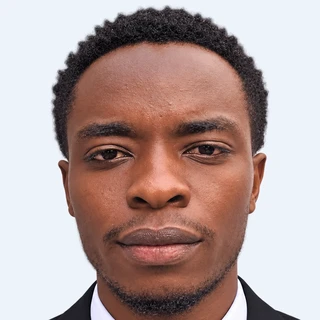
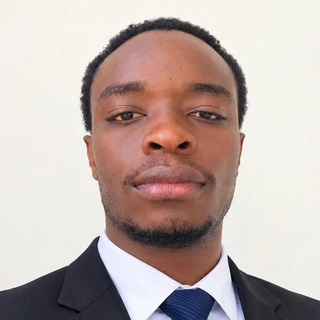
Update Isaiah's photo and match founder portraits

diff --git a/founders.html b/founders.html
@@ -35,7 +35,7 @@
 <main id="main">
 
 <section class="page-hero"><div class="container"><span class="eyebrow">The people behind OM</span><h1>Meet our founders.</h1><p>Four founders building practical water, farm and workplace solutions — and a brand that carries beyond the job site.</p></div></section>
-<section class="section-sm" style="padding-top:0"><div class="container"><div class="grid grid-4"><article class="card founder reveal" style="--d:0.00s"><div class="avatar photo"><img src="assets/founders/john.webp" alt="John Senteu" width="160" height="160" loading="lazy"></div><span class="role">Co-founder</span><h2>John Senteu</h2><p>Managing Director</p><small>Leads OM's business.</small></article><article class="card founder reveal" style="--d:0.06s"><div class="avatar photo"><img src="assets/founders/dickson.webp" alt="Eng. Dickson Monyatet" width="160" height="160" loading="lazy"></div><span class="role">Co-founder</span><h2>Eng. Dickson Monyatet</h2><p>Engineer</p><small>Full biography coming soon.</small></article><article class="card founder reveal" style="--d:0.12s"><div class="avatar photo"><img src="assets/founders/ian.webp" alt="Eng. Ian A. Ombui" width="160" height="160" loading="lazy"></div><span class="role">Co-founder</span><h2>Eng. Ian A. Ombui</h2><p>Engineer · Irrigation systems &amp; client consultation</p><small>Designs irrigation systems for farms and guides clients from first consultation to a working system.</small></article><article class="card founder reveal" style="--d:0.18s"><div class="avatar photo"><img src="assets/founders/isaiah.webp" alt="Isaiah Okara" width="160" height="160" loading="lazy"></div><span class="role">Co-founder</span><h2>Isaiah Okara</h2><p>Plumbing Technologist</p><small>New technology and modern design.</small></article></div></div></section>
+<section class="section-sm" style="padding-top:0"><div class="container"><div class="grid grid-4"><article class="card founder reveal" style="--d:0.00s"><div class="avatar photo"><img src="assets/founders/john.webp?v=2" alt="John Senteu" width="160" height="160" loading="lazy"></div><span class="role">Co-founder</span><h2>John Senteu</h2><p>Managing Director</p><small>Leads OM's business.</small></article><article class="card founder reveal" style="--d:0.06s"><div class="avatar photo"><img src="assets/founders/dickson.webp?v=2" alt="Eng. Dickson Monyatet" width="160" height="160" loading="lazy"></div><span class="role">Co-founder</span><h2>Eng. Dickson Monyatet</h2><p>Engineer</p><small>Full biography coming soon.</small></article><article class="card founder reveal" style="--d:0.12s"><div class="avatar photo"><img src="assets/founders/ian.webp?v=2" alt="Eng. Ian A. Ombui" width="160" height="160" loading="lazy"></div><span class="role">Co-founder</span><h2>Eng. Ian A. Ombui</h2><p>Engineer · Irrigation systems &amp; client consultation</p><small>Designs irrigation systems for farms and guides clients from first consultation to a working system.</small></article><article class="card founder reveal" style="--d:0.18s"><div class="avatar photo"><img src="assets/founders/isaiah.webp?v=2" alt="Isaiah Okara" width="160" height="160" loading="lazy"></div><span class="role">Co-founder</span><h2>Isaiah Okara</h2><p>Plumbing Technologist</p><small>New technology and modern design.</small></article></div></div></section>
 <section class="section section-alt"><div class="container">
  <div class="section-head center reveal"><span class="eyebrow">What drives us</span><h2>Build · Flow · Thrive.</h2></div>
  <div class="grid grid-3">

diff --git a/_build/build.py b/_build/build.py
@@ -419,7 +419,7 @@ def founders():
         ("IO", "Eng. Ian A. Ombui", "assets/founders/ian.webp", "Co-founder", "Engineer · Irrigation systems &amp; client consultation", "Designs irrigation systems for farms and guides clients from first consultation to a working system."),
         ("IO", "Isaiah Okara", "assets/founders/isaiah.webp", "Co-founder", "Plumbing Technologist", "New technology and modern design."),
     ]
-    av = lambda a, n, ph: f'<div class="avatar photo"><img src="{ph}" alt="{n}" width="160" height="160" loading="lazy"></div>' if ph else f'<div class="avatar">{a}</div>'
+    av = lambda a, n, ph: f'<div class="avatar photo"><img src="{ph}?v=2" alt="{n}" width="160" height="160" loading="lazy"></div>' if ph else f'<div class="avatar">{a}</div>'
     cards = "".join(f'<article class="card founder reveal" style="--d:{i*.06:.2f}s">{av(a, n, ph)}<span class="role">{r}</span><h2>{n}</h2><p>{t}</p><small>{bio}</small></article>' for i, (a, n, ph, r, t, bio) in enumerate(people))
     return head("Founders | OM Ltd", "Meet the founders of OM Ltd — John Senteu, Dickson Monyatet, Ian Ombui and Isaiah Okara.", "founders") + f'''
 <section class="page-hero"><div class="container"><span class="eyebrow">The people behind OM</span><h1>Meet our founders.</h1><p>Four founders building practical water, farm and workplace solutions — and a brand that carries beyond the job site.</p></div></section>
